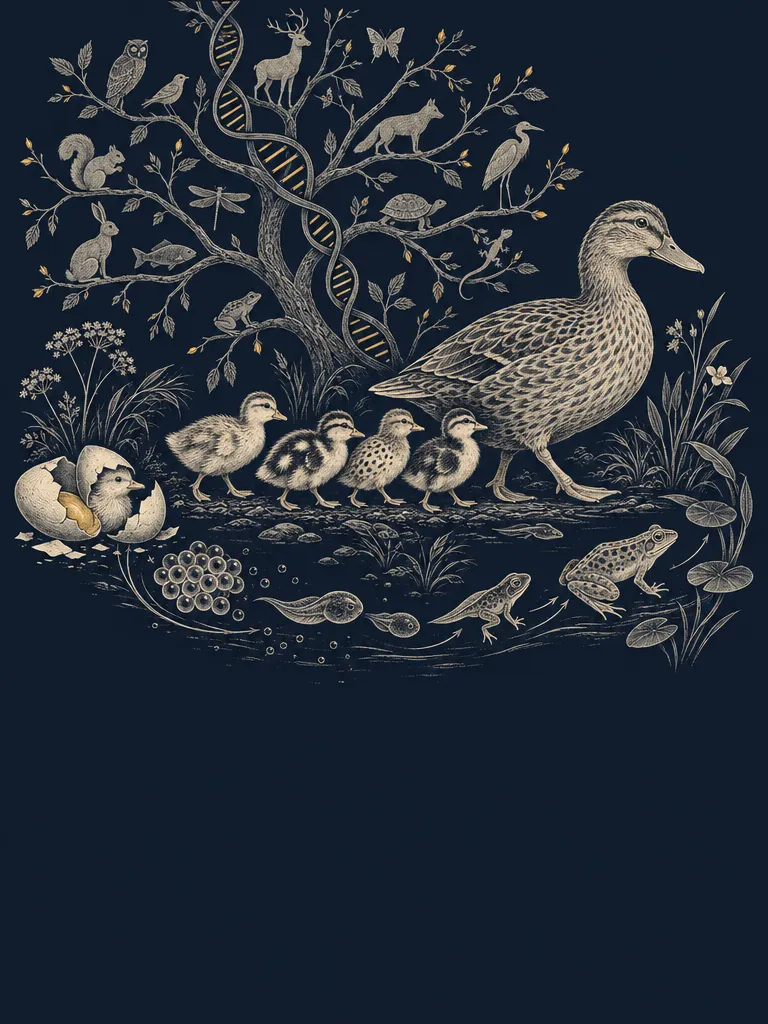
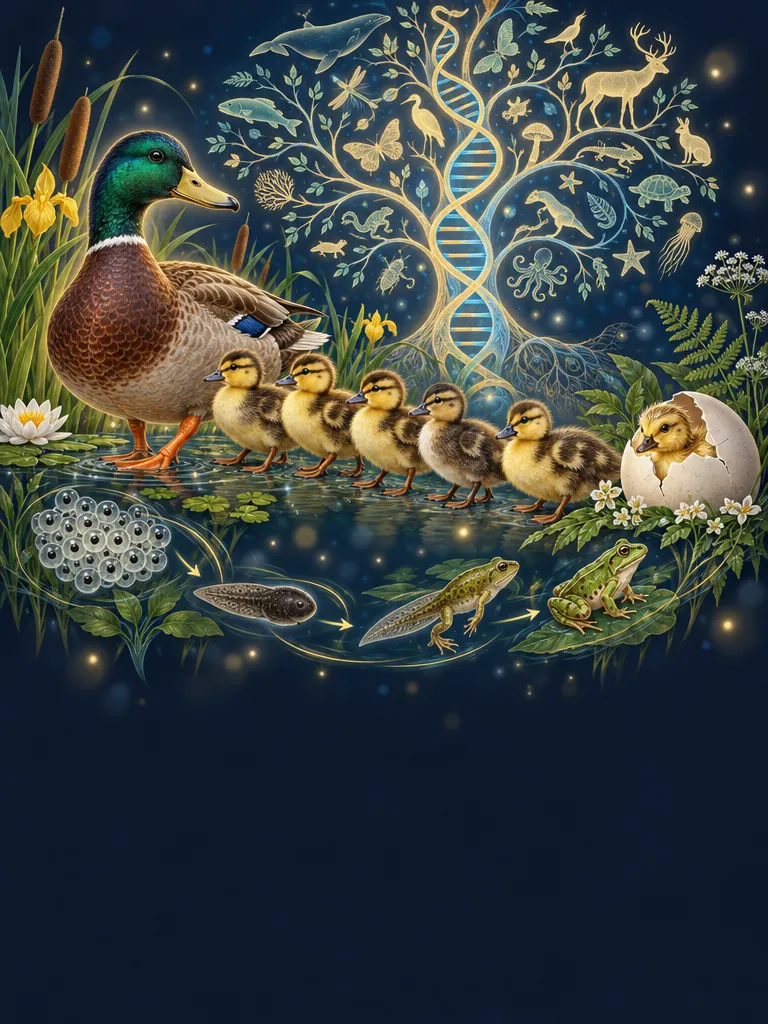
Agora onderbouw: kerndoelplaten in kleur (gloedstijl); gravures bewaard als varianten

diff --git a/index.html b/index.html
@@ -2890,7 +2890,7 @@ function onderbouwPagina(){
     </div></section>
   <section class="wrap blok"><div class="kdgrid">${subs.map(([lbl,naam,hfd,mat,href])=>{const t=href?telling('kerndoelen',lbl):'';
     const pl=KDPLAAT.includes(lbl);
-    const binnen=`${pl?`<span class="kdplaat" aria-hidden="true" style="--kp:url(img/kunst/onderbouw/${lbl}.webp?v=1)"></span>`:''}<span class="kd-kunst">${kunst(OBKUNST[lbl]||'cellen')}</span><span class="kd-code mono">Kerndoel ${esc(lbl)}</span><b>${esc(naam)}</b>${hfd?`<span class="kd-sub">${esc(hfd)}</span>`:''}<span class="kd-mat mono">${esc(t||'volgt')}</span>`;
+    const binnen=`${pl?`<span class="kdplaat" aria-hidden="true" style="--kp:url(img/kunst/onderbouw/${lbl}.webp?v=2)"></span>`:''}<span class="kd-kunst">${kunst(OBKUNST[lbl]||'cellen')}</span><span class="kd-code mono">Kerndoel ${esc(lbl)}</span><b>${esc(naam)}</b>${hfd?`<span class="kd-sub">${esc(hfd)}</span>`:''}<span class="kd-mat mono">${esc(t||'volgt')}</span>`;
     return href?`<a class="kd${pl?' met-plaat':''}" href="#kerndoelen-${lbl}">${binnen}</a>`:`<div class="kd leeg">${binnen}</div>`}).join('')}</div>
     <div class="binnenkort"><a class="link-atlas" href="#kerndoelen">Alle onderbouwfilms en tools →</a></div></section>`;
 }

diff --git a/CLAUDE.md b/CLAUDE.md
@@ -108,4 +108,4 @@ Elke pagina start in de donkere stand, ook als het apparaat op licht staat; alle
 
 Elke pagina krijgt een knop 'Feedback?' in de kopbalk (naast licht/donker; in films rechts in de sitebalk; op de telefoon een rond '?') en een zwevend '?' rechtsonder zodra de kopbalk uit beeld is (in films verborgen zolang het geluid speelt). `js/feedback.js` wordt meegeladen door `js/teller.js`, dus een nieuwe pagina met de teller heeft hem vanzelf; uitzetten per pagina met `window.BK_GEEN_FEEDBACK = true` of `?feedback=0`. Venster: soort (fout gevonden / onduidelijk / idee / compliment), tekst (≤2000), optioneel naam of klas; pagina, titel, #-plek en bij films het geluidsfragment + tijdstip gaan mee. Opslag: Firebase `edutool`, knooppunt `feedback/<push-id>` via de REST-API zonder inlog (regels in `sessie/database.rules.json`, blok `feedback`: iedereen mag één nieuw bericht toevoegen, alleen de docent leest, zet `status` op verwerkt of verwijdert). Docentoverzicht: `sessie/feedback.html` (inloggen als bij Klas live, filter nieuw/verwerkt/soort, 'Kopieer als lijst' om aan Claude te geven; link ook bovenin `sessie/docent.html`).
 
-Kerndoelkaarten op 'Agora onderbouw' (`onderbouwPagina()` in index.html, Kamiel 21 okt 2026: "bioart, net ietsje kinderlijker want onderbouw"): vullende gravureplaat achter elke actieve kaart, `img/kunst/onderbouw/<kerndoel>.webp` (3:4, gpt-image-2.5-sunburst, ivoor/goud op navy maar ronder en prentenboekachtiger dan de 'Wat word jij?'-platen; onderwerp boven, onderste 40% leeg navy). Lijst `KDPLAAT`; alleen in de donkere stand (klasse `met-plaat`, laag `.kdplaat`, ronde lijntekening dan verborgen), in de lichte stand blijft de lijntekening. 32D (volgt) heeft nog geen plaat. ElevenLabs-flow https://elevenlabs.io/app/flows/lQMpaFmvVYZu5EGHnedr, één variant per plaat.
+Kerndoelkaarten op 'Agora onderbouw' (`onderbouwPagina()` in index.html, Kamiel 21 okt 2026: "bioart, net ietsje kinderlijker want onderbouw"): vullende plaat achter elke actieve kaart, `img/kunst/onderbouw/<kerndoel>.webp` (3:4, gpt-image-2.5-sunburst; onderwerp boven, onderste 40% leeg navy). Kamiel koos dezelfde avond 'toch de kleurrijke variant': gloedstijl zoals de themapictogrammen (Haeckel-achtig, gloeiend in kleur op navy, prentenboekachtig); de eerste ivoor/goud-gravures staan als `img/kunst/varianten/onderbouw/<kd>-gravure.webp`, de kleurversies ook als `<kd>-kleur.webp`. Lijst `KDPLAAT`; alleen in de donkere stand (klasse `met-plaat`, laag `.kdplaat`, ronde lijntekening dan verborgen), in de lichte stand blijft de lijntekening. 32D (volgt) heeft nog geen plaat. ElevenLabs-flow https://elevenlabs.io/app/flows/lQMpaFmvVYZu5EGHnedr, één variant per plaat.
